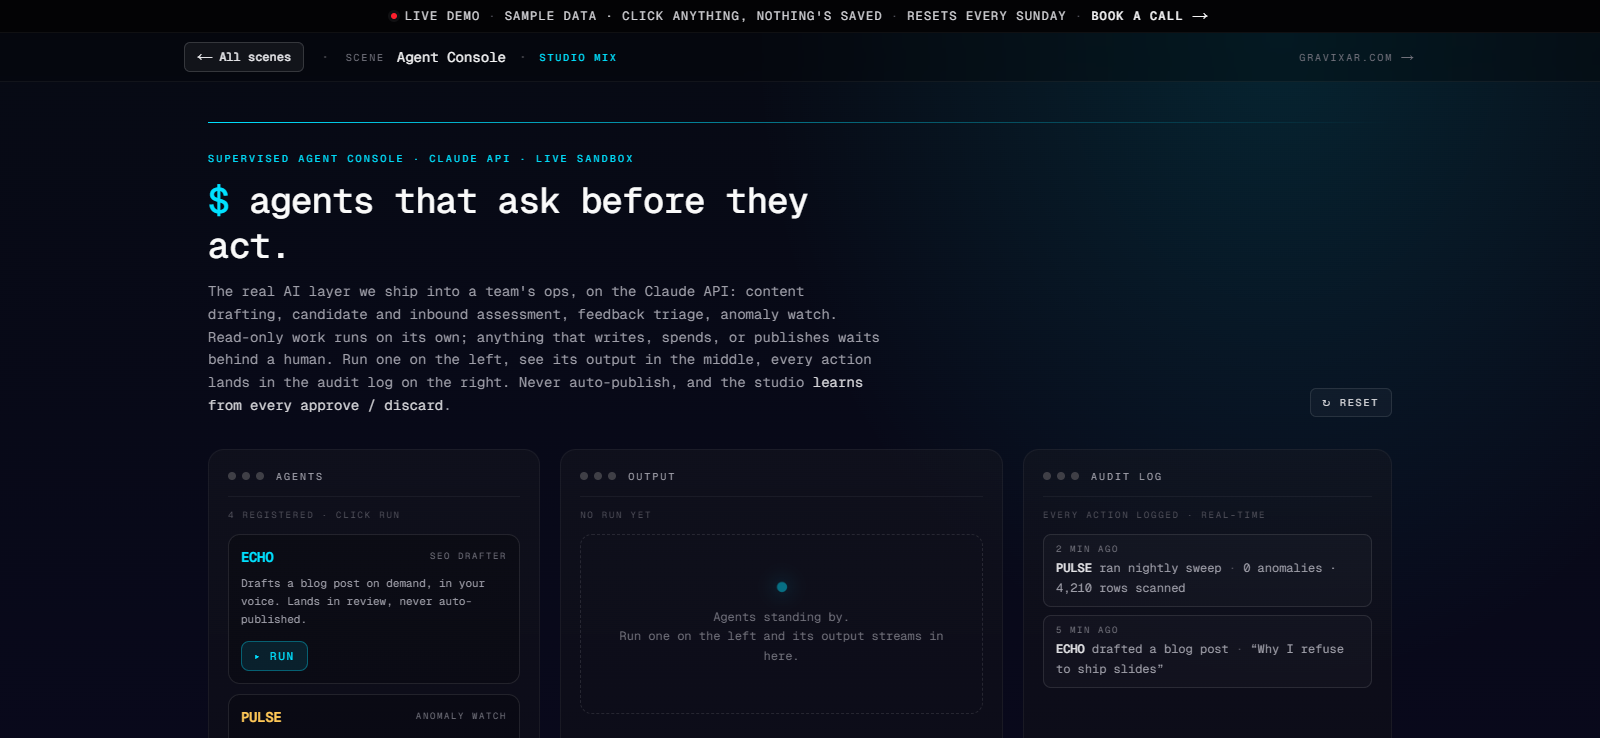
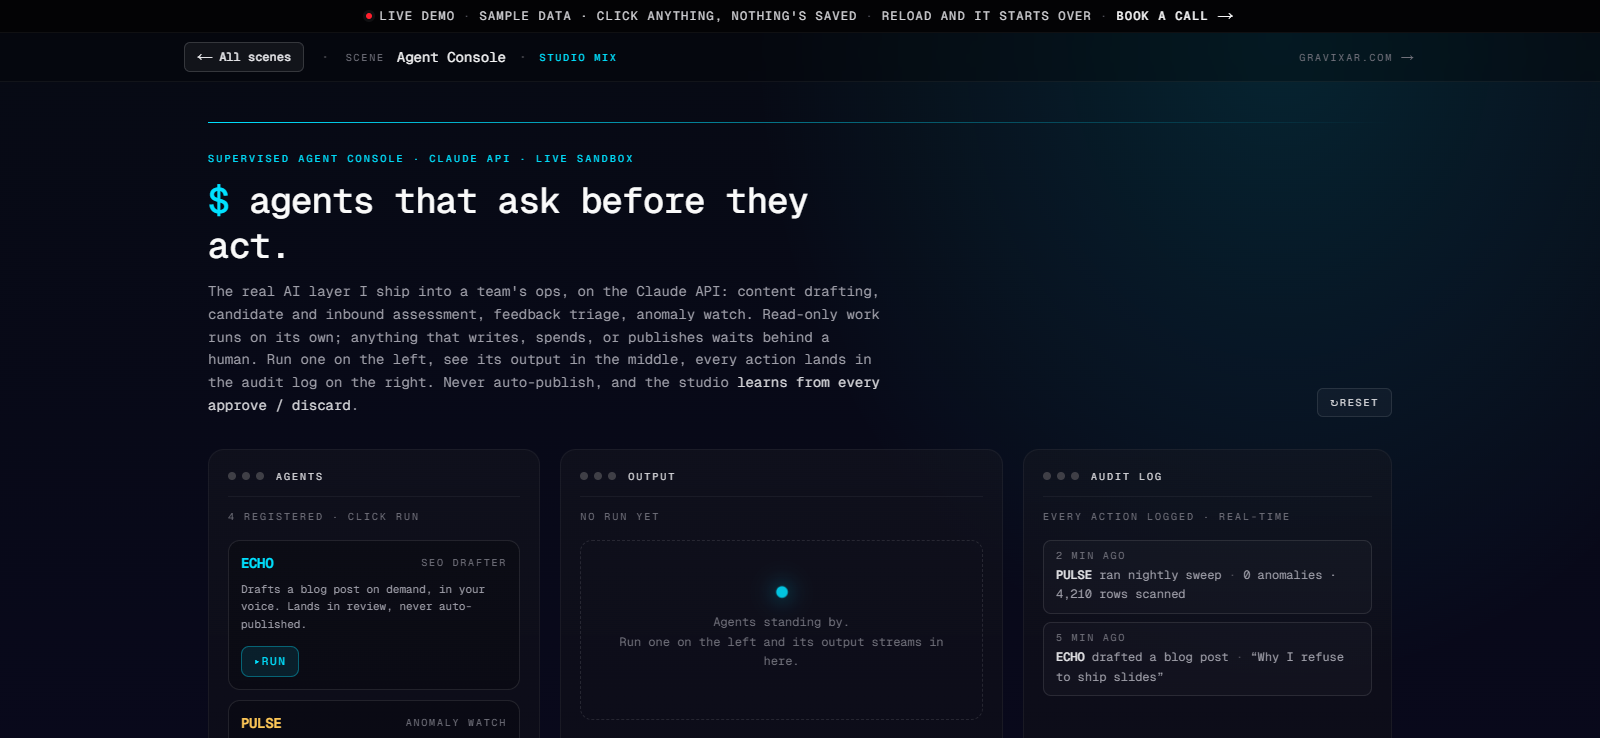
fix(mkt): retire the phantom persona-switcher, resync the demo catalog (#112)

diff --git a/src/lib/demos.ts b/src/lib/demos.ts
@@ -10,8 +10,16 @@
 // the demo's own card claims.
 //
 // Screenshots are real captures pulled from the live demo's /scenes/<slug>.png
-// into /public/scenes here. A sixth scene (Verus Partners, an AI intake
-// wizard) is coming online and is intentionally not listed until it is live.
+// into /public/scenes here, refreshed with the demo repo's `pnpm capture`.
+// Re-capture whenever the demo has a visual pass, or these cards quietly
+// advertise a version of the product that no longer exists.
+//
+// Five scenes, and only five. A scene is listed here only once it is genuinely
+// clickable. Verus Partners was previously described here as "coming online
+// and intentionally not listed until it is live", but it was in fact named on
+// the demo index and on /demos for five weeks against a 404, so it has been
+// removed from the demo's scene registry entirely and is not named on any
+// public surface. Roadmap scenes live in the brain.
 
 export type DemoScene = {
   slug: string;

diff --git a/src/app/(marketing)/demos/page.tsx b/src/app/(marketing)/demos/page.tsx
@@ -25,7 +25,7 @@ export default function DemosIndexPage() {
       <DemoGrid priority />
 
       <p className="font-mono text-[10px] uppercase tracking-[0.18em] text-zinc-600">
-        sandbox · resets every sunday · each scene has its own brand and sample data · next online: Verus Partners
+        sandbox · each scene has its own brand and sample data, and nothing you press is saved
       </p>
 
       <ContactCTA />

diff --git a/src/components/home/Demos.tsx b/src/components/home/Demos.tsx
@@ -123,7 +123,7 @@ export function Demos() {
           </p>
         </div>
         <p className="font-mono text-[10px] uppercase tracking-[0.18em] text-zinc-600">
-          sandbox · resets every sunday
+          sandbox · nothing is saved
         </p>
       </div>
       <div className="mt-10">
